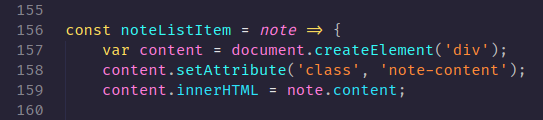
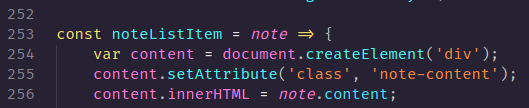
Update note list item line numbers

Changed region(s): [[0.0, 0.0278, 0.9981, 0.9722], [0.7561, 0.0, 0.7864, 0.0278], [0.5747, 0.0, 0.6049, 0.0278]]

diff --git a/Documents/3_CROSS_SITE_SCRIPTING.md b/Documents/3_CROSS_SITE_SCRIPTING.md
@@ -40,7 +40,7 @@ Instead of using `innerHTML` to display text, we should have been using `innerTe
 
 ![](../Images/xss-note-list-item.png)
 
-_In other words, replace line 159 with the following._
+_In other words, replace line 256 with the following._
 
 ```javscript
 content.innerText = note.content;
